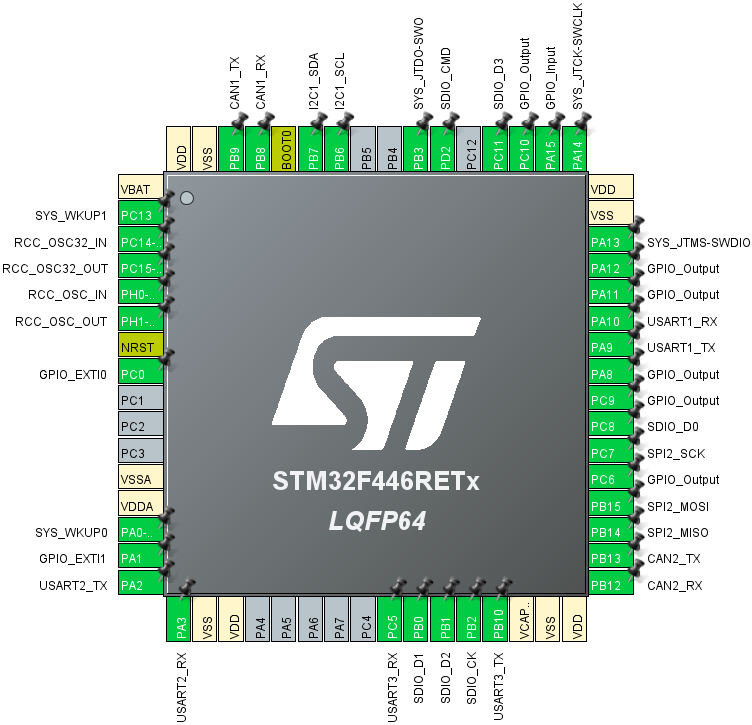
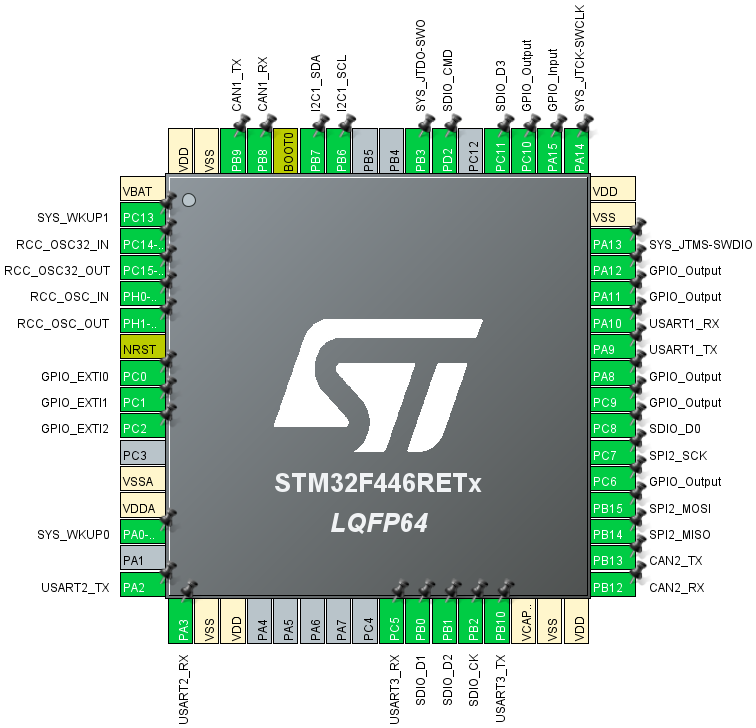
Reconfigure EXTI pinouts

Changed region(s): [[0.0, 0.0, 1.0, 1.0], [0.3976, 0.6372, 0.4282, 0.6676]]

diff --git a/Core/Src/main.c b/Core/Src/main.c
@@ -663,15 +663,21 @@ static void MX_GPIO_Init(void)
 
   /*Configure GPIO pin : PC0 */
   GPIO_InitStruct.Pin = GPIO_PIN_0;
-  GPIO_InitStruct.Mode = GPIO_MODE_IT_RISING;
+  GPIO_InitStruct.Mode = GPIO_MODE_IT_RISING_FALLING;
   GPIO_InitStruct.Pull = GPIO_NOPULL;
   HAL_GPIO_Init(GPIOC, &GPIO_InitStruct);
 
-  /*Configure GPIO pin : PA1 */
+  /*Configure GPIO pin : PC1 */
   GPIO_InitStruct.Pin = GPIO_PIN_1;
   GPIO_InitStruct.Mode = GPIO_MODE_IT_FALLING;
+  GPIO_InitStruct.Pull = GPIO_NOPULL;
+  HAL_GPIO_Init(GPIOC, &GPIO_InitStruct);
+
+  /*Configure GPIO pin : PC2 */
+  GPIO_InitStruct.Pin = GPIO_PIN_2;
+  GPIO_InitStruct.Mode = GPIO_MODE_IT_FALLING;
   GPIO_InitStruct.Pull = GPIO_PULLUP;
-  HAL_GPIO_Init(GPIOA, &GPIO_InitStruct);
+  HAL_GPIO_Init(GPIOC, &GPIO_InitStruct);
 
   /*Configure GPIO pins : PC6 PC9 PC10 */
   GPIO_InitStruct.Pin = GPIO_PIN_6|GPIO_PIN_9|GPIO_PIN_10;
@@ -694,8 +700,14 @@ static void MX_GPIO_Init(void)
   HAL_GPIO_Init(GPIOA, &GPIO_InitStruct);
 
   /* EXTI interrupt init*/
+  HAL_NVIC_SetPriority(EXTI0_IRQn, 0, 0);
+  HAL_NVIC_EnableIRQ(EXTI0_IRQn);
+
   HAL_NVIC_SetPriority(EXTI1_IRQn, 0, 0);
   HAL_NVIC_EnableIRQ(EXTI1_IRQn);
+
+  HAL_NVIC_SetPriority(EXTI2_IRQn, 0, 0);
+  HAL_NVIC_EnableIRQ(EXTI2_IRQn);
 
 /* USER CODE BEGIN MX_GPIO_Init_2 */
 /* USER CODE END MX_GPIO_Init_2 */

diff --git a/Core/Src/stm32f4xx_it.c b/Core/Src/stm32f4xx_it.c
@@ -200,6 +200,20 @@ void SysTick_Handler(void)
 /******************************************************************************/
 
 /**
+  * @brief This function handles EXTI line 0 interrupt.
+  */
+void EXTI0_IRQHandler(void)
+{
+  /* USER CODE BEGIN EXTI0_IRQn 0 */
+
+  /* USER CODE END EXTI0_IRQn 0 */
+  HAL_GPIO_EXTI_IRQHandler(GPIO_PIN_0);
+  /* USER CODE BEGIN EXTI0_IRQn 1 */
+
+  /* USER CODE END EXTI0_IRQn 1 */
+}
+
+/**
   * @brief This function handles EXTI line 1 interrupt.
   */
 void EXTI1_IRQHandler(void)
@@ -211,6 +225,20 @@ void EXTI1_IRQHandler(void)
   /* USER CODE BEGIN EXTI1_IRQn 1 */
 
   /* USER CODE END EXTI1_IRQn 1 */
+}
+
+/**
+  * @brief This function handles EXTI line 2 interrupt.
+  */
+void EXTI2_IRQHandler(void)
+{
+  /* USER CODE BEGIN EXTI2_IRQn 0 */
+
+  /* USER CODE END EXTI2_IRQn 0 */
+  HAL_GPIO_EXTI_IRQHandler(GPIO_PIN_2);
+  /* USER CODE BEGIN EXTI2_IRQn 1 */
+
+  /* USER CODE END EXTI2_IRQn 1 */
 }
 
 /**

diff --git a/Core/Inc/sh2_hal_spi.h b/Core/Inc/sh2_hal_spi.h
@@ -32,9 +32,9 @@ extern TIM_HandleTypeDef htim5;
 #define SH2_HTIM htim5
 
 // GPIO_EXTI for INTN.
-#define SH2_INTN_EXTI_IRQ EXTI1_IRQn
-#define SH2_INTN_PORT GPIOA
-#define SH2_INTN_PIN GPIO_PIN_1
+#define SH2_INTN_EXTI_IRQ EXTI2_IRQn
+#define SH2_INTN_PORT GPIOC
+#define SH2_INTN_PIN GPIO_PIN_2
 
 // GPIO output for wake/1 of 2 communication periperal selection pins.
 #define SH2_PS0_WAKEN_PORT GPIOC

diff --git a/Core/Inc/stm32f4xx_it.h b/Core/Inc/stm32f4xx_it.h
@@ -55,7 +55,9 @@ void SVC_Handler(void);
 void DebugMon_Handler(void);
 void PendSV_Handler(void);
 void SysTick_Handler(void);
+void EXTI0_IRQHandler(void);
 void EXTI1_IRQHandler(void);
+void EXTI2_IRQHandler(void);
 void DMA1_Stream3_IRQHandler(void);
 void CAN1_RX0_IRQHandler(void);
 void CAN1_RX1_IRQHandler(void);

diff --git a/README.md b/README.md
@@ -96,7 +96,7 @@ STM32F446RE with telemetry ICs.
 | PC6         | GPIO_Output (SPI2 CS) | Pull-up, set high | BNO085 Pin 18: H_CSN            |                                       |
 | PB14        | SPI2_MISO             |                   | BNO085 Pin 20: H_SDA/H_MISO/TX  |                                       |
 | PB15        | SPI2_MOSI             |                   | BNO085 Pin 17: SA0/H_MOSI       |                                       |
-| PA1         | GPIO_EXTI1            | Pull-up           | BNO085 Pin 14: H_INTN           |                                       |
+| PC2         | GPIO_EXTI2            | Pull-up           | BNO085 Pin 14: H_INTN           |                                       |
 | PC9         | GPIO_Output           |                   | BNO085 Pin 6: PS0/Wake          | Pull low to trigger wake.             |
 |             |                       | Hardware pull-up  | BNO085 Pin 5: PS1               |                                       |
 | PA8         | GPIO_Output           |                   | BNO085 Pin 11: NRST             | Pull low to reset.                    |
@@ -107,7 +107,7 @@ STM32F446RE with telemetry ICs.
 | PA10        | USART1_RX             | 115200 bps        | XBP9X-DMUS-001 Pin 3: DIN       |                                       |
 | PA9         | USART1_TX             | 115200 bps        | XBP9X-DMUS-001 Pin 2: DOUT      |                                       |
 | PC0         | GPIO_EXTI0            |                   | XBP9X-DMUS-001 Pin 13: ON/SLEEP |                                       |
-| PA15        | GPIO_Input            |                   | XBP9X-DMUS-001 Pin 12: CTS      |                                       |
+| PC1         | GPIO_EXTI1            |                   | XBP9X-DMUS-001 Pin 12: CTS      |                                       |
 | PC10        | GPIO_Output           |                   | XBP9X-DMUS-001 Pin 16: RTS      |                                       |
 | PA3         | USART2_RX             | 115200 bps        | GPS (TBD)                       |                                       |
 | PA2         | USART2_TX             | 115200 bps        | GPS (TBD)                       |                                       |
@@ -274,7 +274,7 @@ $$PSC = \frac{Source}{Target} - 1 = \frac{ 45 \space \mathrm{MHz} }{ 1 \space
 
 #### 2.6.1 GPIO External Interrupt/Event Controller (EXTI)
 
-GPIO_EXTI1 is set up for the INTN pin for BNO0885 to MCU response (see
+GPIO_EXTI2 is set up for the INTN pin for BNO0885 to MCU response (see
 datasheet).
 
 ### 2.7 BNO085 Driver
